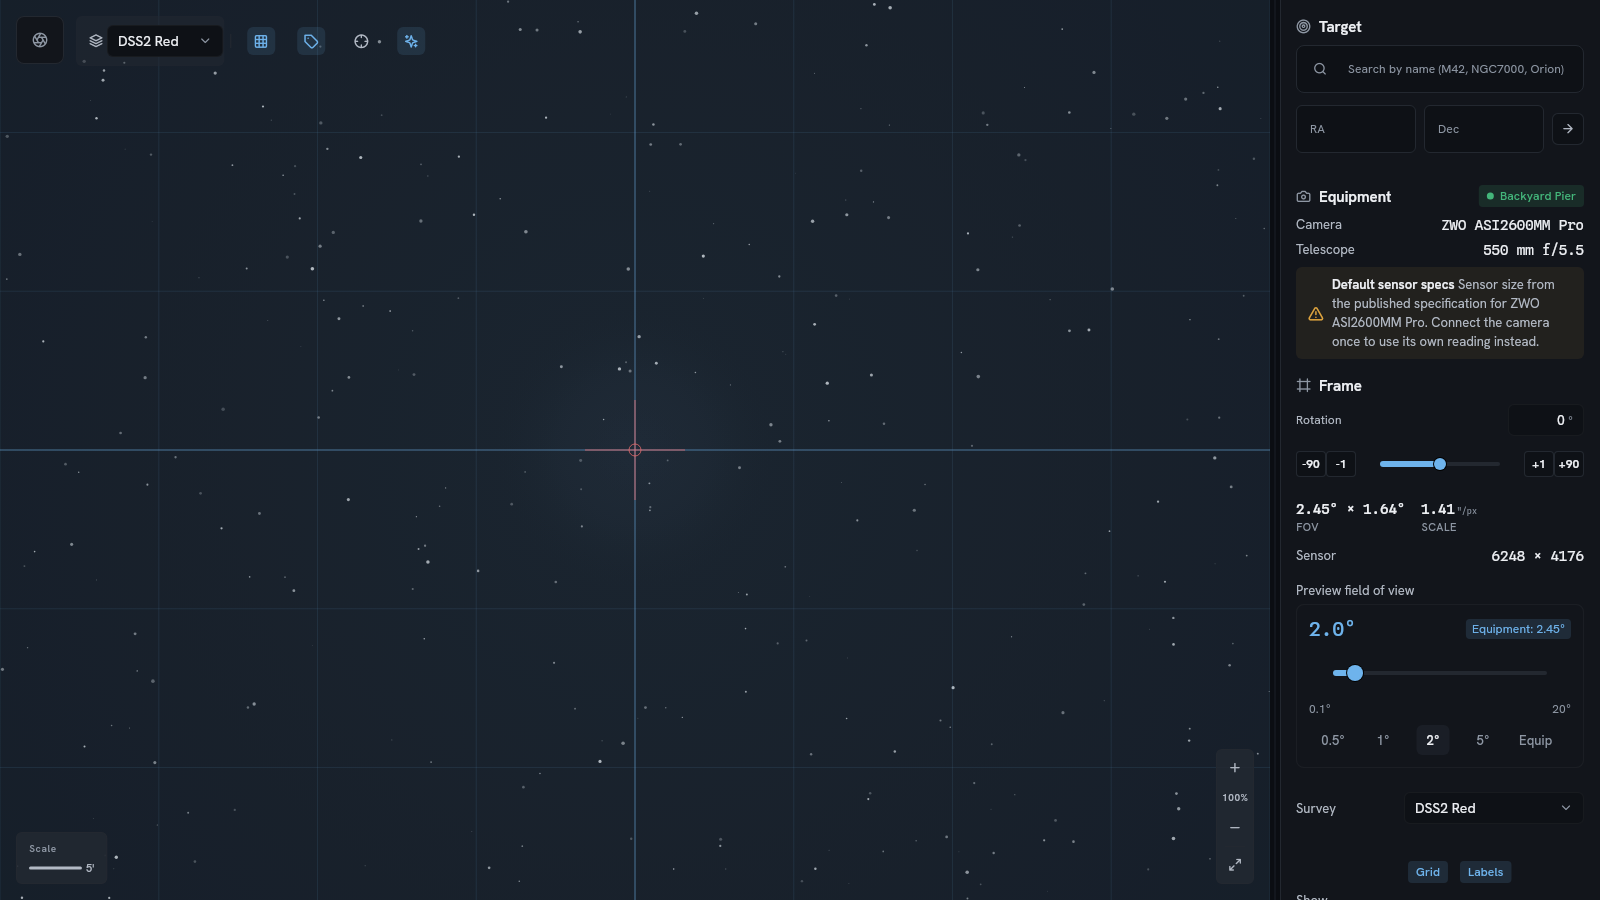
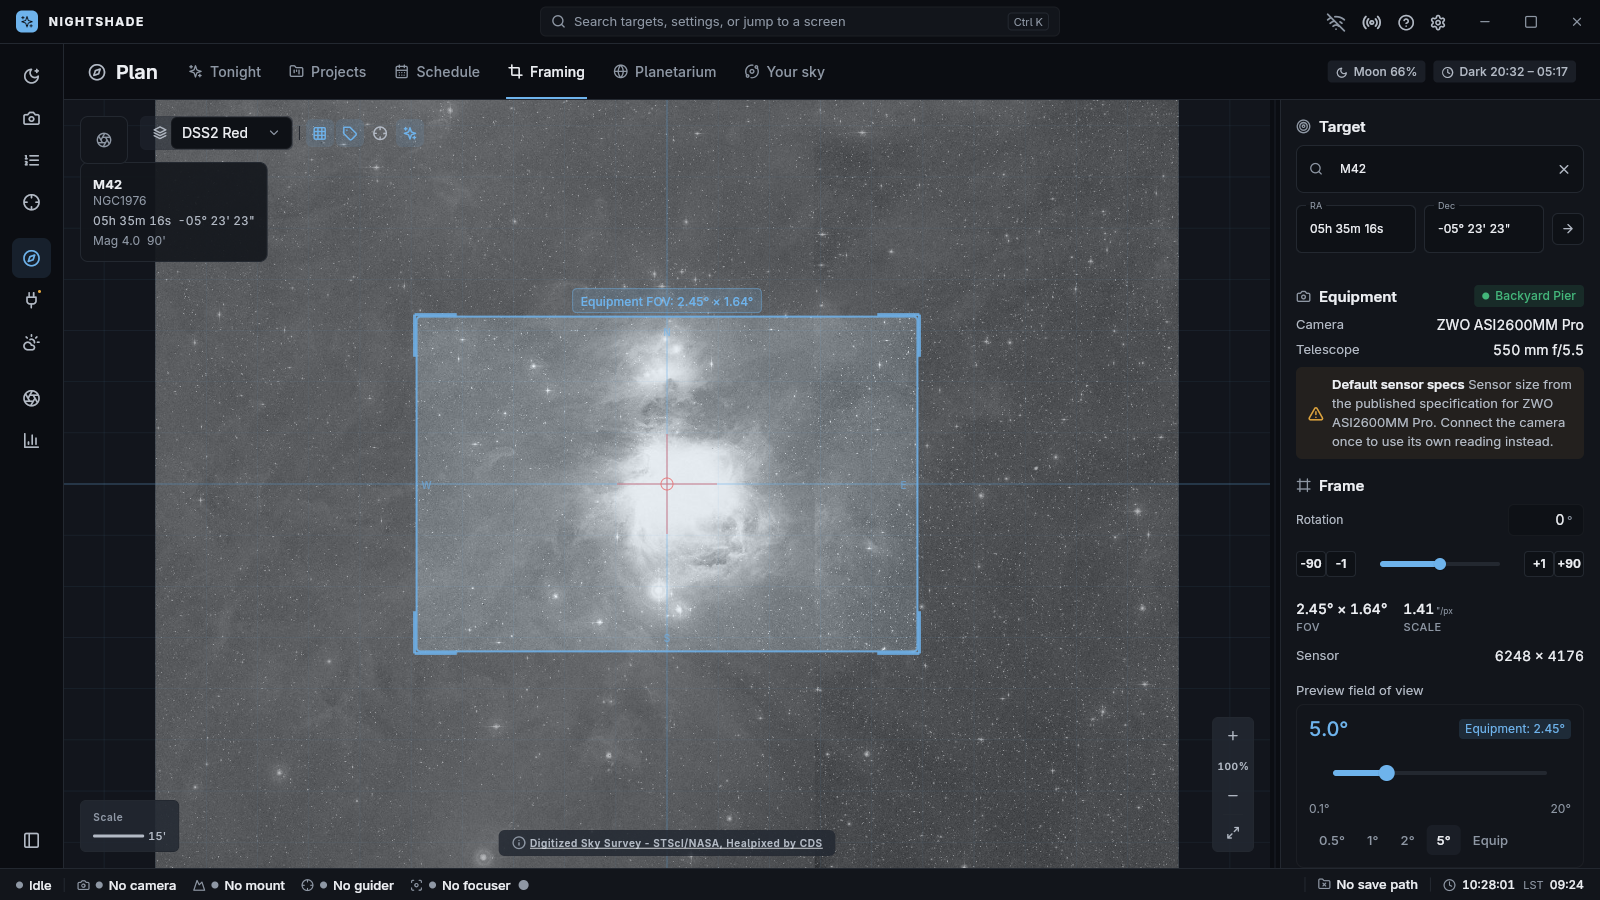
screenshots: a real target in Framing, and a night's worth of sequence
Framing showed an empty star field with nothing loaded, because the widget
test has no network and cannot fetch survey imagery. It is now captured
from the running app instead: M42 searched and loaded, DSS2 Red from CDS
behind it, and the sensor rectangle for a real 550mm f/5.5 profile with
its field of view and image scale. The generator no longer renders that
screen at all.

The sequencer showed four steps. It now shows what an actual night looks
like - unpark, open the cover, cool, slew, centre on a plate solve, start
guiding, autofocus, rotate Ha/OIII/SII a frame at a time for 36 frames
with a meridian flip watching the whole target, then stop guiding, warm,
close and park - part-way through, with the plan for the running filter
open beside it.

The numbers agree with each other: 36 frames at 180s is the 1h 48m of
integration in the totals, six are done (two of each filter) and the
seventh is exposing, and the elapsed time covers the preamble plus those
six frames.

diff --git a/packages/nightshade_app/test/golden/public_screenshots_test.dart b/packages/nightshade_app/test/golden/public_screenshots_test.dart
@@ -14,7 +14,6 @@ import 'package:nightshade_app/screens/analytics/analytics_screen.dart';
 import 'package:nightshade_app/screens/dashboard/dashboard_screen.dart';
 import 'package:nightshade_app/screens/equipment/equipment_screen.dart';
 import 'package:nightshade_app/screens/flat_wizard/flat_wizard_screen.dart';
-import 'package:nightshade_app/screens/framing/framing_screen.dart';
 import 'package:nightshade_app/screens/guiding/guiding_screen.dart';
 import 'package:nightshade_app/screens/imaging/imaging_screen.dart';
 import 'package:nightshade_app/screens/sequencer/sequencer_screen.dart';
@@ -261,10 +260,14 @@ final _screenshotProfile = EquipmentProfileModel(
 final _screenshotSequence = Sequence(
   id: 'screenshot-narrowband',
   name: 'IC 434 Narrowband Run',
-  description: 'Ha/OIII/SII sequence with autofocus and dithering.',
+  description:
+      'Unpark, slew, plate-solve, guide and focus, then twelve Ha/OIII/SII '
+      'sets with a meridian flip, and park at the end.',
   createdAt: DateTime(2026, 1, 15, 21, 50),
   modifiedAt: DateTime(2026, 1, 15, 22, 35),
-  estimatedDurationMins: 360,
+  // 36 frames at 180s is 108 minutes of shutter time. The rest is the
+  // preamble, downloads, dithers, the flip and the shutdown.
+  estimatedDurationMins: 146,
   rootNodeId: 'nb-root',
   nodes: {
     'nb-root': InstructionSetNode(
@@ -280,71 +283,136 @@ final _screenshotSequence = Sequence(
       decDegrees: -2.45,
       minAltitude: 30,
       priority: 5,
-      childIds: const ['nb-cool', 'nb-focus', 'nb-loop', 'nb-warm'],
+      childIds: const [
+        'nb-unpark',
+        'nb-cover',
+        'nb-cool',
+        'nb-slew',
+        'nb-center',
+        'nb-guide',
+        'nb-focus',
+        'nb-smart',
+        'nb-flip',
+        'nb-stop-guiding',
+        'nb-warm',
+        'nb-close',
+        'nb-park',
+      ],
       parentId: 'nb-root',
+    ),
+    'nb-unpark': UnparkNode(
+      id: 'nb-unpark',
+      parentId: 'nb-target',
+      orderIndex: 0,
+    ),
+    'nb-cover': OpenCoverNode(
+      id: 'nb-cover',
+      parentId: 'nb-target',
+      orderIndex: 1,
     ),
     'nb-cool': CoolCameraNode(
       id: 'nb-cool',
       targetTemp: -10,
       parentId: 'nb-target',
-      orderIndex: 0,
+      orderIndex: 2,
+    ),
+    'nb-slew': SlewNode(
+      id: 'nb-slew',
+      parentId: 'nb-target',
+      orderIndex: 3,
+    ),
+    'nb-center': CenterNode(
+      id: 'nb-center',
+      name: 'Center on plate solve',
+      accuracyArcsec: 30,
+      exposureDuration: 8,
+      filter: 'L',
+      parentId: 'nb-target',
+      orderIndex: 4,
+    ),
+    'nb-guide': StartGuidingNode(
+      id: 'nb-guide',
+      settlePixels: 1.2,
+      settleTime: 12,
+      parentId: 'nb-target',
+      orderIndex: 5,
     ),
     'nb-focus': AutofocusNode(
       id: 'nb-focus',
       method: AutofocusMethod.vCurve,
       parentId: 'nb-target',
-      orderIndex: 1,
+      orderIndex: 6,
     ),
-    'nb-loop': LoopNode(
-      id: 'nb-loop',
-      name: 'Repeat narrowband set',
-      conditionType: LoopConditionType.count,
-      repeatCount: 12,
+    // One row per filter, rotating a frame at a time, so the three
+    // channels finish together instead of Ha draining first and the target
+    // setting before SII starts. 3 x 12 x 180s is the 36 frames and 1h 48m
+    // of shutter time the totals below have to add up to.
+    'nb-smart': SmartExposureNode(
+      id: 'nb-smart',
+      name: 'Narrowband set',
+      plans: const [
+        FilterPlan(
+          filterName: 'Ha',
+          filterIndex: 4,
+          count: 12,
+          durationSecs: 180,
+          gain: 100,
+          offset: 50,
+          ditherEvery: 3,
+        ),
+        FilterPlan(
+          filterName: 'OIII',
+          filterIndex: 5,
+          count: 12,
+          durationSecs: 180,
+          gain: 100,
+          offset: 50,
+          ditherEvery: 3,
+        ),
+        FilterPlan(
+          filterName: 'SII',
+          filterIndex: 6,
+          count: 12,
+          durationSecs: 180,
+          gain: 100,
+          offset: 50,
+          ditherEvery: 3,
+        ),
+      ],
+      ditherOnFilterChange: true,
       parentId: 'nb-target',
-      orderIndex: 2,
-      childIds: const ['nb-ha', 'nb-oiii', 'nb-sii'],
+      orderIndex: 7,
     ),
-    'nb-ha': ExposureNode(
-      id: 'nb-ha',
-      name: 'Ha 180s x 12',
-      durationSecs: 180,
-      count: 12,
-      filter: 'Ha',
-      gain: 100,
-      binning: BinningMode.one,
-      ditherEvery: 3,
-      parentId: 'nb-loop',
-      orderIndex: 0,
+    // A trigger, not a step: it sits beside the capture node and watches the
+    // whole target rather than running at one point in the order.
+    'nb-flip': MeridianFlipNode(
+      id: 'nb-flip',
+      minutesPastMeridian: 2,
+      autoCenter: true,
+      refocusAfter: true,
+      parentId: 'nb-target',
+      orderIndex: 8,
     ),
-    'nb-oiii': ExposureNode(
-      id: 'nb-oiii',
-      name: 'OIII 180s x 12',
-      durationSecs: 180,
-      count: 12,
-      filter: 'OIII',
-      gain: 100,
-      binning: BinningMode.one,
-      ditherEvery: 3,
-      parentId: 'nb-loop',
-      orderIndex: 1,
-    ),
-    'nb-sii': ExposureNode(
-      id: 'nb-sii',
-      name: 'SII 180s x 12',
-      durationSecs: 180,
-      count: 12,
-      filter: 'SII',
-      gain: 100,
-      binning: BinningMode.one,
-      ditherEvery: 3,
-      parentId: 'nb-loop',
-      orderIndex: 2,
+    'nb-stop-guiding': StopGuidingNode(
+      id: 'nb-stop-guiding',
+      parentId: 'nb-target',
+      orderIndex: 9,
     ),
     'nb-warm': WarmCameraNode(
       id: 'nb-warm',
       ratePerMin: 5,
       parentId: 'nb-target',
-      orderIndex: 3,
+      orderIndex: 10,
+    ),
+    'nb-close': CloseCoverNode(
+      id: 'nb-close',
+      parentId: 'nb-target',
+      orderIndex: 11,
+    ),
+    'nb-park': ParkNode(
+      id: 'nb-park',
+      parentId: 'nb-target',
+      orderIndex: 12,
     ),
   },
 );
@@ -364,29 +432,41 @@ class _ScreenshotProgress extends SequenceProgressNotifier {
   _ScreenshotProgress() {
     updateState(SequenceExecutionState.running);
     setTotals(36, 6480);
-    // Six Ha frames are in, the seventh is exposing. The old fixture claimed
-    // 18 of 36 complete while the Ha node underneath it said "7 / 12 frames"
-    // and OIII and SII were both still pending, so the ring and the tree
-    // disagreed about the same run.
+    // Six frames in, two of each filter, and the seventh - an Ha - is
+    // exposing. Everything below has to agree with that: the ring, the
+    // per-filter tallies and the integration total. An older fixture said 18
+    // of 36 while the node underneath it said 7 of 12, so the tree and the
+    // ring described different runs.
     updateProgress(
-      currentNodeId: 'nb-ha',
-      currentNodeName: 'Ha 180s x 12',
+      currentNodeId: 'nb-smart',
+      currentNodeName: 'Narrowband set',
       currentNodeStatus: NodeStatus.running,
       completedExposures: 6,
       completedIntegrationSecs: 1080,
-      elapsedSecs: 1412,
-      estimatedRemainingSecs: 5704,
+      // 18 minutes of unpark, cooling, slew, plate solve, guider settle and
+      // autofocus, then six frames at 180s plus downloads and dithers.
+      elapsedSecs: 2250,
+      estimatedRemainingSecs: 6510,
       currentTarget: 'IC 434 - Horsehead Nebula',
       currentFilter: 'Ha',
-      message: 'Capturing Ha frame 7 of 12',
+      message: 'Capturing Ha - frame 7 of 36',
     );
+    updateNodeStatus('nb-unpark', NodeStatus.success);
+    updateNodeStatus('nb-cover', NodeStatus.success);
     updateNodeStatus('nb-cool', NodeStatus.success);
+    updateNodeStatus('nb-slew', NodeStatus.success);
+    updateNodeStatus('nb-center', NodeStatus.success);
+    updateNodeStatus('nb-guide', NodeStatus.success);
     updateNodeStatus('nb-focus', NodeStatus.success);
-    updateNodeStatus('nb-loop', NodeStatus.running);
-    updateNodeStatus('nb-ha', NodeStatus.running);
-    updateNodeStatus('nb-oiii', NodeStatus.pending);
-    updateNodeStatus('nb-sii', NodeStatus.pending);
-    updateNodeProgress('nb-ha', 0.5, '6 / 12 frames');
+    updateNodeStatus('nb-smart', NodeStatus.running);
+    // The flip is armed and watching. The target is still east of the
+    // meridian, so it has not fired.
+    updateNodeStatus('nb-flip', NodeStatus.pending);
+    updateNodeStatus('nb-stop-guiding', NodeStatus.pending);
+    updateNodeStatus('nb-warm', NodeStatus.pending);
+    updateNodeStatus('nb-close', NodeStatus.pending);
+    updateNodeStatus('nb-park', NodeStatus.pending);
+    updateNodeProgress('nb-smart', 6 / 36, 'Ha 2/12 - OIII 2/12 - SII 2/12');
   }
 }
 
@@ -635,7 +715,7 @@ final _sharedOverrides = <Override>[
       .overrideWith((ref) => _screenshotProfile.id),
   smartNightExposureContextProvider.overrideWith((ref) async => null),
   currentSequenceProvider.overrideWith((ref) => _ScreenshotSequence()),
-  selectedNodeIdProvider.overrideWith((ref) => 'nb-ha'),
+  selectedNodeIdProvider.overrideWith((ref) => 'nb-smart'),
   sequenceExecutionStateProvider.overrideWith(
     (ref) => SequenceExecutionState.running,
   ),
@@ -781,13 +861,14 @@ Future<void> _capture(
   }
 }
 
-/// Planetarium, Plan and Weather are NOT generated here.
+/// Planetarium, Plan, Weather and Framing are NOT generated here.
 ///
 /// Each needs something a widget test cannot supply: the planetarium needs the
-/// HYG star catalogue installed, Plan needs OpenNGC, and the Weather radar
-/// needs map tiles off the network. Rendered here they produced "No observing
-/// site set", "Install the object catalog" and a blank map, which is what the
-/// README carried. Those three are captured from the running app instead —
+/// HYG star catalogue installed, Plan needs OpenNGC, the Weather radar needs
+/// map tiles off the network, and Framing needs survey imagery fetched from
+/// CDS for a real target. Rendered here they produced "No observing site set",
+/// "Install the object catalog", a blank map, and an empty star field with no
+/// target loaded, which is what the README carried. Those three are captured from the running app instead —
 /// `tools/ui_audit/drive_linux.py` at 1600x900, matching this file's `_size`,
 /// against a profile with the catalogues installed and a detected site. Adding
 /// them back to the list below would overwrite the real captures with empty
@@ -845,11 +926,6 @@ void main() {
       screen: const EquipmentScreen(),
       fileName: 'equipment.png',
       overrides: [equipmentTabIndexProvider.overrideWith((ref) => 1)],
-    );
-    await _capture(
-      tester,
-      screen: const FramingScreen(),
-      fileName: 'framing.png',
     );
     await _capture(
       tester,
